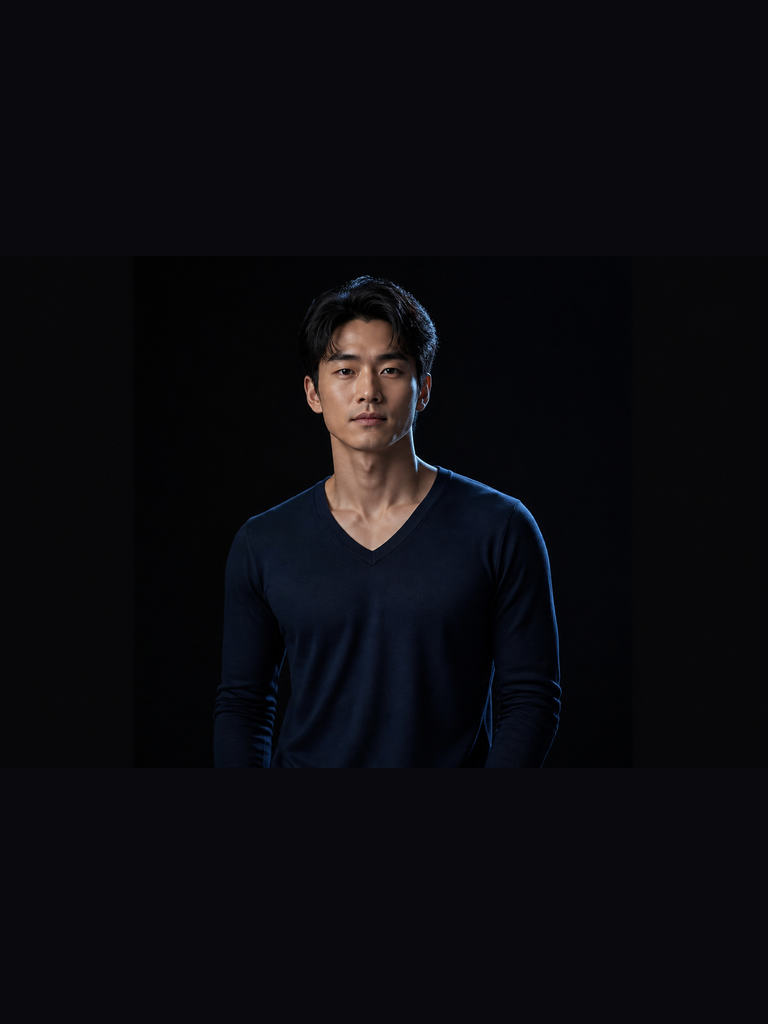
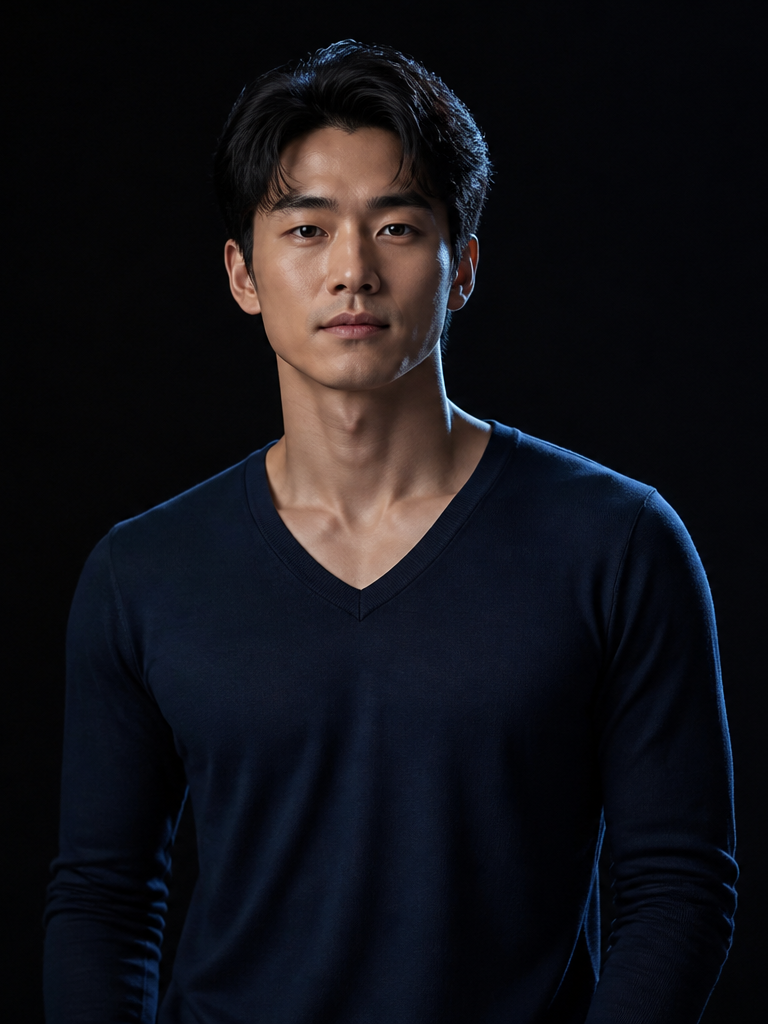
Match Companion Pulse Adversary scale to the other cards

diff --git a/index.html b/index.html
@@ -983,7 +983,7 @@
       </div>
       <div class="scenario-grid" id="scenario-grid" role="listbox" aria-label="Specialty personalities">
         <button type="button" class="scenario" role="option" data-layer="companion" aria-pressed="false">
-          <img class="scenario-art" src="assets/scenarios/companion.png?v=4" alt="" />
+          <img class="scenario-art" src="assets/scenarios/companion.png?v=5" alt="" />
           <span class="scenario-label"><strong>Companion</strong></span>
         </button>
         <button type="button" class="scenario" role="option" data-layer="host" aria-pressed="false">
@@ -991,7 +991,7 @@
           <span class="scenario-label"><strong>Host</strong></span>
         </button>
         <button type="button" class="scenario" role="option" data-layer="pulse" aria-pressed="false">
-          <img class="scenario-art" src="assets/scenarios/nurse.png?v=4" alt="" />
+          <img class="scenario-art" src="assets/scenarios/nurse.png?v=5" alt="" />
           <span class="scenario-label"><strong>Pulse</strong></span>
         </button>
         <button type="button" class="scenario" role="option" data-layer="correspondent" aria-pressed="false">
@@ -1011,7 +1011,7 @@
           <span class="scenario-label"><strong>Guide</strong></span>
         </button>
         <button type="button" class="scenario" role="option" data-layer="adversary" aria-pressed="false">
-          <img class="scenario-art" src="assets/scenarios/doctor.png?v=4" alt="" />
+          <img class="scenario-art" src="assets/scenarios/doctor.png?v=5" alt="" />
           <span class="scenario-label"><strong>Adversary</strong></span>
         </button>
         <button type="button" class="scenario" role="option" data-layer="mediator" aria-pressed="false">
